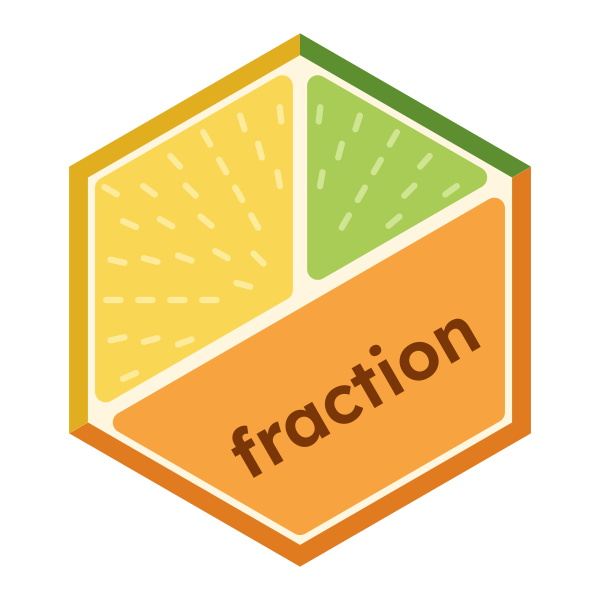
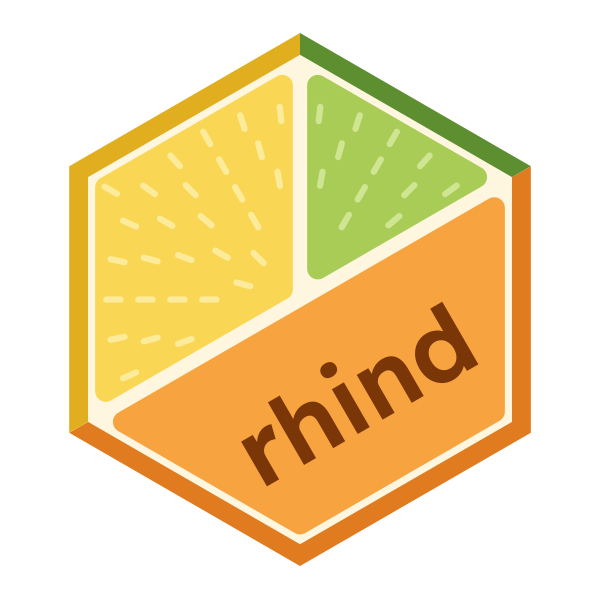
Rename package to rhind

diff --git a/src/rhind.c b/src/rhind.c
@@ -508,7 +508,7 @@ static const R_CallMethodDef call_entries[] = {
   {NULL, NULL, 0}
 };
 
-void R_init_fraction(DllInfo *dll) {
+void R_init_rhind(DllInfo *dll) {
   R_registerRoutines(dll, NULL, call_entries, NULL, NULL);
   R_useDynamicSymbols(dll, FALSE);
   R_forceSymbols(dll, TRUE);

diff --git a/README.md b/README.md
@@ -1,16 +1,16 @@
 
 <!-- README.md is generated from README.Rmd. Please edit that file -->
 
-# fraction <a href="https://pkg.mitchelloharawild.com/fraction/"><img src="man/figures/logo.svg" align="right" height="139" alt="fraction website" /></a>
+# rhind <a href="https://pkg.mitchelloharawild.com/rhind/"><img src="man/figures/logo.svg" align="right" height="139" alt="rhind website" /></a>
 
 <!-- badges: start -->
 
 [![Lifecycle:
 experimental](https://img.shields.io/badge/lifecycle-experimental-orange.svg)](https://lifecycle.r-lib.org/articles/stages.html#experimental)
-[![R-CMD-check](https://github.com/mitchelloharawild/fraction/actions/workflows/R-CMD-check.yaml/badge.svg)](https://github.com/mitchelloharawild/fraction/actions/workflows/R-CMD-check.yaml)
+[![R-CMD-check](https://github.com/mitchelloharawild/rhind/actions/workflows/R-CMD-check.yaml/badge.svg)](https://github.com/mitchelloharawild/rhind/actions/workflows/R-CMD-check.yaml)
 <!-- badges: end -->
 
-fraction provides vectors of exact fractions, with the numerator and
+rhind provides vectors of exact fractions, with the numerator and
 denominator stored separately as whole numbers.
 
 - Fractions are displayed as they were written, so `3/10` and `30/100`
@@ -26,13 +26,13 @@ You can install the development version of fraction from GitHub:
 
 ``` r
 # install.packages("pak")
-pak::pak("mitchelloharawild/fraction")
+pak::pak("mitchelloharawild/rhind")
 ```
 
 ## Usage
 
 ``` r
-library(fraction)
+library(rhind)
 
 fraction(1, 3) + fraction(1, 6)
 #> <fraction<double>[1]>
@@ -64,7 +64,7 @@ fraction(1, 3) + as_fraction(0.5)
 #> [1] 5/6
 ```
 
-See `vignette("fraction")` for details.
+See `vignette("rhind")` for details.
 
 ## Caveats
 

diff --git a/LICENSE.md b/LICENSE.md
@@ -1,6 +1,6 @@
 # MIT License
 
-Copyright (c) 2026 fraction authors
+Copyright (c) 2026 rhind authors
 
 Permission is hereby granted, free of charge, to any person obtaining a copy
 of this software and associated documentation files (the "Software"), to deal

diff --git a/NEWS.md b/NEWS.md
@@ -1,3 +1,3 @@
-# fraction 0.0.0.9000
+# rhind 0.0.0.9000
 
 * First release. `fraction()` creates exact fractions with the numerator and denominator stored separately. Arithmetic is exact, and gives results in lowest terms.
